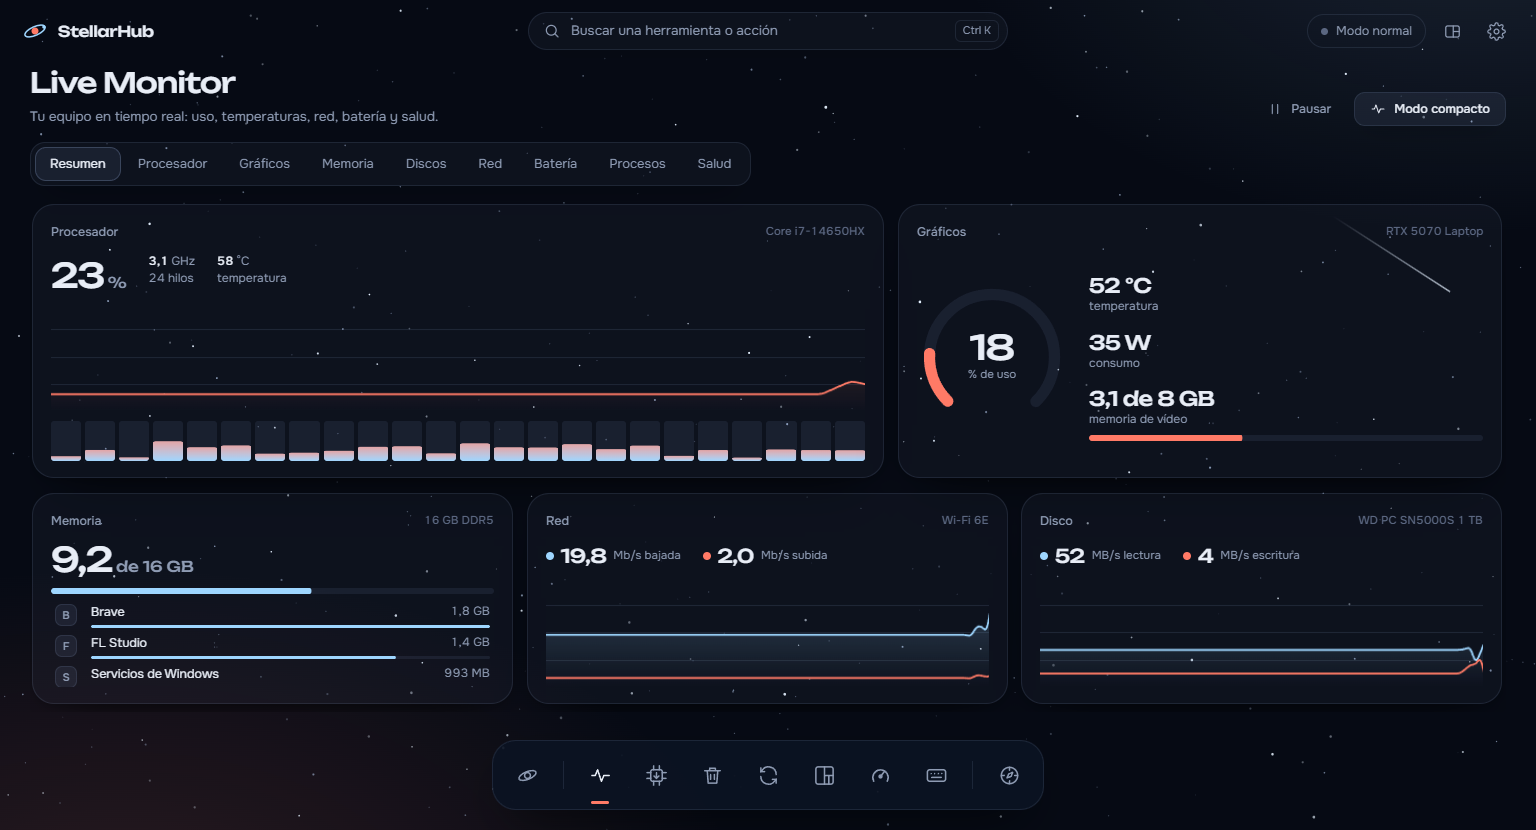
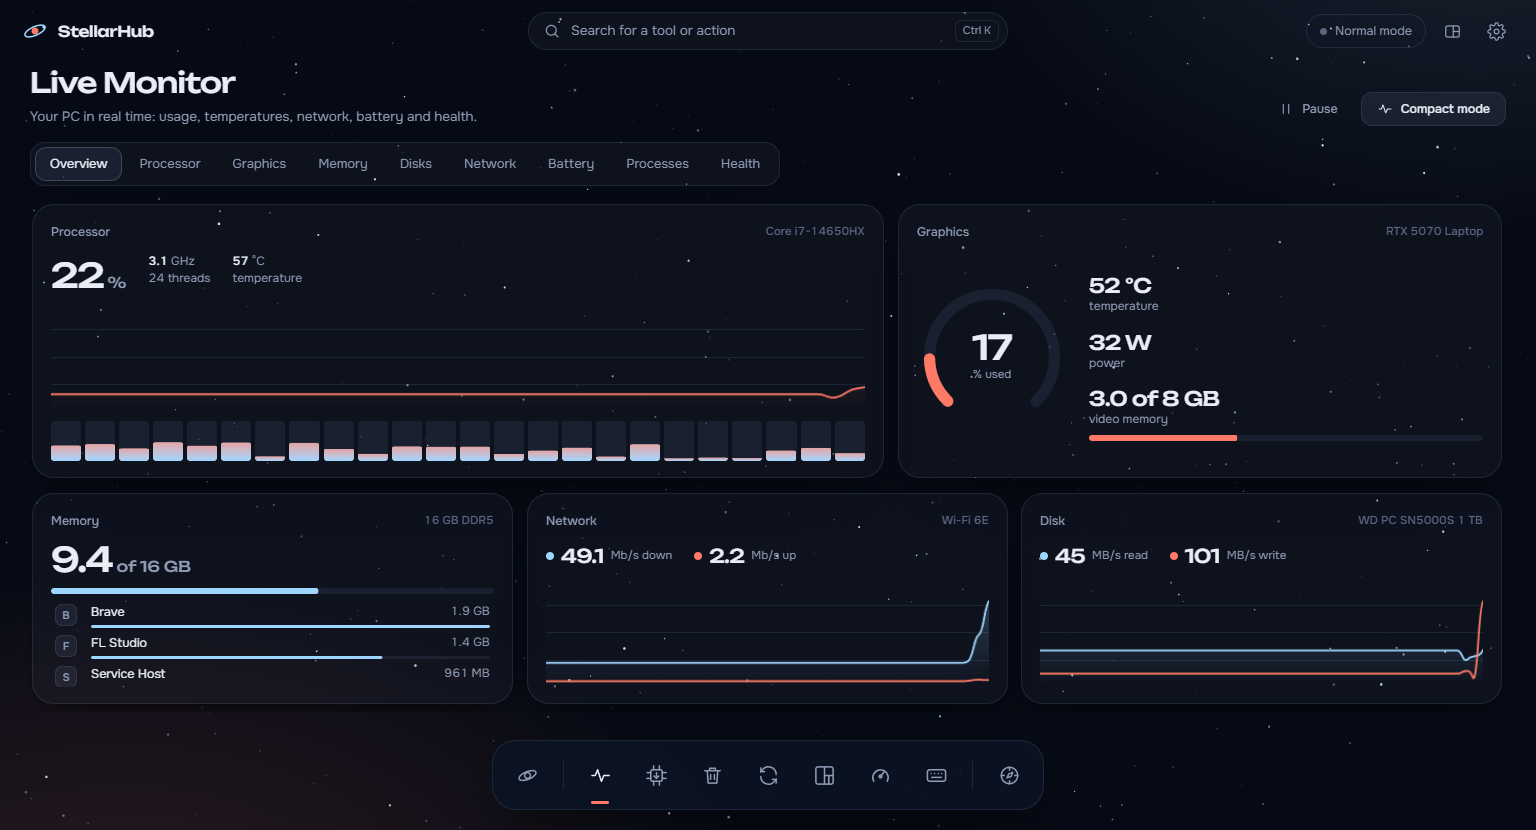
Rewrite the README in English with new screenshots

diff --git a/README.md b/README.md
@@ -2,202 +2,201 @@
 
 # 🪐 StellarHub
 
-**El centro de control de tu PC con Windows.**
-Tu equipo en vivo, drivers, programas, disco, limpieza y pruebas de hardware, en una sola app cuidada al detalle.
+**The control center for your Windows PC.**
+Live hardware stats, drivers, apps, disk space, cleanup and hardware tests, in one carefully crafted app.
 
-[![Licencia: GPL v3](https://img.shields.io/badge/licencia-GPLv3-FF7A66.svg)](LICENSE)
+[![License: GPL v3](https://img.shields.io/badge/license-GPLv3-FF7A66.svg)](LICENSE)
 ![Windows 10 | 11](https://img.shields.io/badge/Windows-10%20%7C%2011-9ED6FF.svg)
 ![Python 3.12+](https://img.shields.io/badge/Python-3.12%2B-3572A5.svg)
-![Estado](https://img.shields.io/badge/estado-en%20desarrollo-F4C26B.svg)
+![Status](https://img.shields.io/badge/status-in%20development-F4C26B.svg)
 
-![Inicio de StellarHub](docs/img/inicio.png)
+![StellarHub home screen](docs/img/home.png)
 
 </div>
 
-## Índice
+## 📑 Contents
 
-- [✨ Qué es](#-qué-es)
-- [🧩 Módulos](#-módulos)
-- [🎛 Además](#-además)
-- [🖼 Capturas](#-capturas)
-- [🚀 Instalación](#-instalación)
-- [⌨ Atajos](#-atajos)
-- [🛡 Seguridad](#-seguridad)
-- [🏗 Cómo está hecho](#-cómo-está-hecho)
-- [🗺 Hoja de ruta](#-hoja-de-ruta)
-- [🤝 Contribuir](#-contribuir)
-- [📜 Licencia y créditos](#-licencia-y-créditos)
+- [What it is](#-what-it-is)
+- [Modules](#-modules)
+- [Also included](#-also-included)
+- [Screenshots](#-screenshots)
+- [Getting started](#-getting-started)
+- [Keyboard shortcuts](#-keyboard-shortcuts)
+- [Safety](#-safety)
+- [How it's built](#-how-its-built)
+- [Roadmap](#-roadmap)
+- [Contributing](#-contributing)
+- [License and credits](#-license-and-credits)
 
-## ✨ Qué es
+## ✨ What it is
 
-StellarHub reúne en un solo sitio las herramientas que normalmente están repartidas en media docena de programas:
-un monitor del sistema, un actualizador de drivers y de programas, un desinstalador que borra los restos, un
-analizador de espacio, un optimizador y un probador de periféricos.
+StellarHub brings together the tools that are usually spread across half a dozen programs: a system monitor,
+a driver and app updater, an uninstaller that removes leftovers, a disk space analyzer, an optimizer and a
+peripheral tester.
 
-Todo trabaja con **datos reales de tu equipo**, todo lo que cambia el sistema es **reversible** cuando se puede, y
-la interfaz está pensada para que usarla sea agradable: animaciones fluidas, un fondo espacial configurable y
-ninguna pantalla recargada.
+Everything works with **real data from your PC**, everything that changes the system is **reversible** whenever
+possible, and the interface is designed to be a pleasure to use: smooth animations, a configurable starfield and
+no cluttered screens.
 
-## 🧩 Módulos
+## 🧩 Modules
 
-### 🏠 Inicio
-Tu equipo de un vistazo: el modelo real, sus componentes en un **mosaico** o en un **modelo 3D** que puedes girar,
-el estado en vivo (CPU, GPU, temperaturas, memoria, disco, red, batería), la salud del sistema y lo que hay
-pendiente. Cada componente abre una ficha con datos en vivo; la de pantallas muestra en directo lo que se ve en
-cada monitor.
+### ⌂ Home
+Your PC at a glance: the real model, its components as a **tile grid** or a **3D model** you can rotate, live
+stats (CPU, GPU, temperatures, memory, disk, network, battery), system health and what needs attention. Each
+component opens a detail card with live data; the displays card even shows what is on each monitor right now.
 
-### 📈 Live Monitor
-CPU por hilo (separando núcleos de rendimiento y eficientes), frecuencia real, GPU NVIDIA (uso, temperatura, consumo,
-VRAM), memoria, discos con salud **SMART**, red y Wi-Fi, batería con su desgaste, procesos con su icono y la salud
-del sistema (dispositivos con error y eventos críticos explicados en lenguaje claro).
+### ∿ Live Monitor
+CPU per thread (performance and efficient cores apart), real clock speed, NVIDIA GPU (load, temperature, power,
+VRAM), memory, disks with **SMART** health, network and Wi-Fi, battery wear, processes with their icons, and system
+health (failing devices and critical events explained in plain language).
 
-### 🔧 Driver Updater
-Inventario de todos los drivers, búsqueda e instalación desde **Windows Update** con punto de restauración,
-dispositivos con problemas o desconectados, **copias de seguridad** de los drivers, versiones guardadas para
-revertir e historial.
+### ⇅ Driver Updater
+A full driver inventory, search and install from **Windows Update** with a restore point first, devices with
+problems or no longer connected, **driver backups**, stored versions to roll back to, and history.
 
-### 🗑 Program Remover
-Desinstalación normal, silenciosa o forzada; **escáner de restos** con nivel de confianza y motivo; **cuarentena**
-para deshacer; desinstalación por lotes; **instalación vigilada** (quita exactamente lo que creó un instalador) y
-modo cazador (apuntas a una ventana y te dice qué programa es).
+### ⌫ Program Remover
+Standard, silent or forced uninstall; a **leftover scanner** with a confidence score and the reason for each item;
+a **quarantine** so everything can be undone; batch uninstall; **watched installs** (removes exactly what an
+installer created); and a hunter mode (point at a window to find out which program it belongs to).
 
-### 🔄 Program Updater
-Actualizaciones de programas con **winget**, Windows Update, Microsoft Store, componentes del sistema (.NET,
-Visual C++, WebView2…) y herramientas de desarrollo (pip, npm), con notas de versión y una cola con progreso real.
+### ↻ Program Updater
+App updates through **winget**, Windows Update, Microsoft Store, system components (.NET, Visual C++, WebView2…)
+and developer tools (pip, npm), with release notes and a queue that shows real progress.
 
-### 💾 Storage Checker
-Mapa interactivo de lo que ocupa cada carpeta, al estilo WinDirStat, con zoom y el espacio libre a la vista. Tipos
-de archivo, archivos más grandes, **duplicados** y comparación con análisis anteriores para ver qué creció.
+### ▦ Storage Checker
+An interactive map of what each folder takes up, WinDirStat style, with zoom and free space in view. File types,
+largest files, **duplicates**, and comparisons with earlier scans to see what grew.
 
-### ⚡ Super Optimizer
-Limpieza de temporales y cachés, programas de **arranque**, servicios, registro, **reparaciones** de Windows (SFC,
-DISM, chkdsk, red, Windows Update…) con la salida en vivo, y ajustes de rendimiento (plan de energía, efectos
-visuales, modo juego, GPU por hardware). Todo con copia previa y deshacer.
+### ↯ Super Optimizer
+Cleanup of temp files and caches, **startup** apps, services, registry, Windows **repairs** (SFC, DISM, chkdsk,
+network, Windows Update…) with live output, and performance settings (power plan, visual effects, game mode,
+hardware-accelerated GPU scheduling). Everything backed up first and undoable.
 
-### ⌨ Device Tester
-Teclado (portátil, 100 %, TKL, 75 %, 65 % y varios idiomas), píxeles muertos, altavoces, micrófono, cámara y
-ratón, con **test de CPS**.
+### ⌨ Device Tester
+Keyboard (laptop, 100 %, TKL, 75 %, 65 % and several layouts), dead pixels, speakers, microphone, camera and
+mouse, with a **CPS test**.
 
-### 🤖 Autopilot
-Rutinas de mantenimiento: eliges cuándo (hora, al iniciar, al desenchufar, con poco espacio…), con qué
-condiciones y qué hacer.
+### ◎ Autopilot
+Maintenance routines: you choose when (a time, at startup, on unplugging, when space runs low…), under which
+conditions and what to do.
 
-## 🎛 Además
+## 🎛 Also included
 
-- 🪟 **Widget siempre visible**, en versión grande (con gráficas) o pequeña (una barra fina), por encima de todo,
-  incluida la barra de tareas y en todos los escritorios virtuales.
-- 📌 **Icono en la bandeja** con accesos rápidos; cerrar la ventana la deja en segundo plano.
-- 🔍 **Paleta de comandos** (`Ctrl K`) para ir a cualquier herramienta o acción escribiendo.
-- 🛡 **Modo administrador** opcional, y permanente si lo quieres (sin el aviso de Windows en cada arranque).
-- 🎨 **Ajustes para casi todo**: tema, colores, tamaño de la interfaz, densidad, esquinas, fondo de estrellas,
-  intensidad y velocidad de las animaciones, accesos directos a las herramientas de Windows y más.
-- 🖱 Los **botones laterales del ratón** van atrás y adelante, como en el navegador.
+- **Always-on-top widget**, large (with charts) or small (a slim bar), above everything including the taskbar and on
+  every virtual desktop.
+- **Tray icon** with quick actions; closing the window keeps StellarHub running in the background.
+- **Command palette** (`Ctrl K`) to jump to any tool or action by typing.
+- **Optional administrator mode**, and a permanent one if you want it (no Windows prompt on every launch).
+- **Settings for almost everything**: theme, colors, interface size, density, corners, starfield, animation
+  intensity and speed, shortcuts to Windows tools and more.
+- The **side buttons of your mouse** go back and forward, like in a browser.
 
-## 🖼 Capturas
+## 🖼 Screenshots
 
 | Live Monitor | Storage Checker |
 |---|---|
 | ![Live Monitor](docs/img/live-monitor.png) | ![Storage Checker](docs/img/storage-checker.png) |
 
-| Program Remover | |
+| Program Remover | Settings |
 |---|---|
-| ![Program Remover](docs/img/program-remover.png) | |
+| ![Program Remover](docs/img/program-remover.png) | ![Settings](docs/img/settings.png) |
 
-> Las capturas se hicieron con datos de ejemplo.
+> Screenshots were taken with sample data.
 
-## 🚀 Instalación
+## 🚀 Getting started
 
-> Pronto habrá un instalador `.exe`. Mientras tanto, se ejecuta desde el código.
+> A `.exe` installer is coming soon. Until then, StellarHub runs from source.
 
-**Requisitos**
+### ◇ Requirements
 
-- Windows 10 u 11 (64 bits)
-- Python 3.12 o superior
-- [WebView2 Runtime](https://developer.microsoft.com/microsoft-edge/webview2/) (Windows 11 ya lo trae)
+- Windows 10 or 11 (64-bit)
+- Python 3.12 or later
+- [WebView2 Runtime](https://developer.microsoft.com/microsoft-edge/webview2/) (already included in Windows 11)
 
-**Pasos**
+### ◇ Run it
 
 ```powershell
-git clone https://github.com/Chivitos100/StellarHub.git
+git clone https://github.com/estebanarosemena/StellarHub.git
 cd StellarHub
 python -m pip install -r requirements.txt
 pythonw run.py
 ```
 
-Para desarrollar: `python run.py --debug` abre las herramientas de desarrollo de la interfaz.
+For development, `python run.py --debug` opens the developer tools for the interface.
 
-**¿Modo administrador?** StellarHub funciona sin él, en modo limitado. Instalar drivers, limpiar archivos del
-sistema, reparar Windows o leer la temperatura de la CPU y el SMART de los discos lo necesitan; la app lo sugiere
-con discreción cuando hace falta.
+### ◇ Administrator mode
 
-## ⌨ Atajos
+StellarHub works without it, in limited mode. Installing drivers, cleaning system files, repairing Windows or
+reading the CPU temperature and disk SMART data require it; the app suggests it quietly when needed.
 
-| Atajo | Acción |
+## ⌨ Keyboard shortcuts
+
+| Shortcut | Action |
 |---|---|
-| `Ctrl K` | Buscar una herramienta o acción |
-| `Ctrl ,` | Ajustes |
-| `Ctrl 1` … `Ctrl 9` | Ir a un módulo |
-| `Alt ←` / `Alt →` o botones laterales del ratón | Atrás / adelante |
-| `Esc` | Cerrar lo que esté abierto o volver a Inicio |
-| Doble clic en la barra superior | Maximizar o restaurar |
+| `Ctrl K` | Search for a tool or action |
+| `Ctrl ,` | Settings |
+| `Ctrl 1` … `Ctrl 9` | Go to a module |
+| `Alt ←` / `Alt →` or mouse side buttons | Back / forward |
+| `Esc` | Close whatever is open, or go back to Home |
+| Double-click the top bar | Maximize or restore |
 
-## 🛡 Seguridad
+## 🛡 Safety
 
-StellarHub toca partes delicadas de Windows, así que lo hace con cuidado:
+StellarHub touches sensitive parts of Windows, so it does it carefully:
 
-- Todo lo que modifica el sistema **pide confirmación**.
-- Antes de los cambios importantes crea un **punto de restauración**, guarda una **copia** (registro, servicios,
-  arranque) o mueve lo eliminado a una **cuarentena** desde la que se puede restaurar.
-- Hay zonas que **nunca se tocan**: Windows, carpetas compartidas, datos personales, servicios críticos, drivers
-  del núcleo y la propia carpeta de StellarHub.
-- Lo que Windows no informa se muestra como «—»: la app no se inventa números.
+- Everything that changes the system **asks for confirmation** first.
+- Before important changes it creates a **restore point**, saves a **backup** (registry, services, startup) or
+  moves deleted items to a **quarantine** they can be restored from.
+- Some areas are **never touched**: Windows itself, shared folders, personal data, critical services, kernel
+  drivers and StellarHub's own folder.
+- Whatever Windows does not report is shown as "—": the app never makes up numbers.
 
-## 🏗 Cómo está hecho
+## 🏗 How it's built
 
-- 🐍 **Python** para todo lo que toca Windows (`stellarhub/engine/`): telemetría en vivo (psutil, contadores de
-  rendimiento, nvidia-smi), WMI, PowerShell, Windows Update, winget, pnputil…
-- 🌐 **Una sola interfaz** en HTML, CSS y JavaScript sin frameworks (`stellarhub/ui/`), dentro de una ventana
-  nativa con [pywebview](https://pywebview.flowrl.com/) y WebView2.
-- 📄 Cómo se escribe un módulo y cómo habla con el motor: [`docs/CONTRATO_UI.md`](docs/CONTRATO_UI.md).
+- **Python** for everything that talks to Windows (`stellarhub/engine/`): live telemetry (psutil, performance
+  counters, nvidia-smi), WMI, PowerShell, Windows Update, winget, pnputil…
+- **A single interface** in plain HTML, CSS and JavaScript, no frameworks (`stellarhub/ui/`), inside a native
+  window powered by [pywebview](https://pywebview.flowrl.com/) and WebView2.
+- How a module is written and how it talks to the engine: [`docs/UI_CONTRACT.md`](docs/UI_CONTRACT.md).
 
 ```
-run.py                     lanzador
+run.py                     launcher
 stellarhub/
-├─ app.py                  ventana, API para la interfaz, widget y modo administrador
-├─ chrome.py               marco propio de la ventana (mover, redimensionar, maximizar)
-├─ tray.py                 icono de la bandeja
-├─ engine/                 motor: un archivo por módulo + telemetría, sistema y tareas largas
-│  └─ removal/             escáner de restos, cuarentena, limpieza e inicio de Windows
-└─ ui/                     interfaz: núcleo, armazón, módulos, vistas de Inicio y widget
-tests/                     pruebas del motor (no tocan el sistema)
-docs/                      contrato de la interfaz y capturas
+├─ app.py                  window, API for the interface, widget and administrator mode
+├─ chrome.py               custom window frame (move, resize, maximize)
+├─ tray.py                 tray icon
+├─ engine/                 engine: one file per module, plus telemetry, system info and long-running jobs
+│  └─ removal/             leftover scanner, quarantine, cleanup and Windows startup
+└─ ui/                     interface: core, shell, modules, Home views and widget
+tests/                     engine tests (they never touch the system)
+docs/                      UI contract and screenshots
+designs/                   the early design explorations
 ```
 
-**Pruebas:** `python -m unittest discover -s tests -t .`
+**Tests:** `python -m unittest discover -s tests -t .`
 
-## 🗺 Hoja de ruta
+## 🗺 Roadmap
 
-- [x] Interfaz completa de los 9 módulos
-- [x] Motor real: telemetría, drivers, programas, actualizaciones, disco, optimizador y monitor
-- [ ] Autopilot ejecutando las rutinas por su cuenta
-- [ ] Instalador `.exe`
-- [ ] Actualizaciones automáticas de StellarHub desde este repositorio
-- [ ] Interfaz en inglés
+- [x] Full interface for all 9 modules
+- [x] Real engine: telemetry, drivers, apps, updates, disk, optimizer and monitor
+- [ ] Autopilot running routines on its own
+- [ ] `.exe` installer
+- [ ] Automatic StellarHub updates from this repository
 
-## 🤝 Contribuir
+## 🤝 Contributing
 
-Las ideas, los avisos de fallos y las mejoras son bienvenidos: abre un *issue* o un *pull request*. Si vas a
-añadir o cambiar un módulo, empieza por [`docs/CONTRATO_UI.md`](docs/CONTRATO_UI.md) y prueba lo que toque el
-sistema solo en modo lectura.
+Ideas, bug reports and improvements are welcome: open an issue or a pull request. If you add or change a module,
+start with [`docs/UI_CONTRACT.md`](docs/UI_CONTRACT.md), and only test anything that touches the system in
+read-only mode.
 
-## 📜 Licencia y créditos
+## 📜 License and credits
 
-Creado por **Esteban Arosemena** y **Claude**.
+Created by **Esteban Arosemena** and **Claude**.
 
-StellarHub es software libre: puedes redistribuirlo y modificarlo bajo los términos de la
-**GNU General Public License v3.0**. Consulta [LICENSE](LICENSE).
+StellarHub is free software: you can redistribute it and/or modify it under the terms of the
+**GNU General Public License v3.0**. See [LICENSE](LICENSE).
 
-Usa [pywebview](https://github.com/r0x0r/pywebview) (BSD-3), [psutil](https://github.com/giampaolo/psutil)
-(BSD-3), [pystray](https://github.com/moses-palmer/pystray) (LGPLv3), [Pillow](https://python-pillow.org/) (MIT-CMU),
-[three.js](https://threejs.org/) (MIT) y las fuentes [Unbounded](https://github.com/googlefonts/unbounded) y
-[Onest](https://github.com/simpals/onest) (SIL Open Font License 1.1).
+Built with [pywebview](https://github.com/r0x0r/pywebview) (BSD-3), [psutil](https://github.com/giampaolo/psutil)
+(BSD-3), [pystray](https://github.com/moses-palmer/pystray) (LGPLv3), [Pillow](https://python-pillow.org/)
+(MIT-CMU), [three.js](https://threejs.org/) (MIT) and the [Unbounded](https://github.com/googlefonts/unbounded)
+and [Onest](https://github.com/simpals/onest) fonts (SIL Open Font License 1.1).
